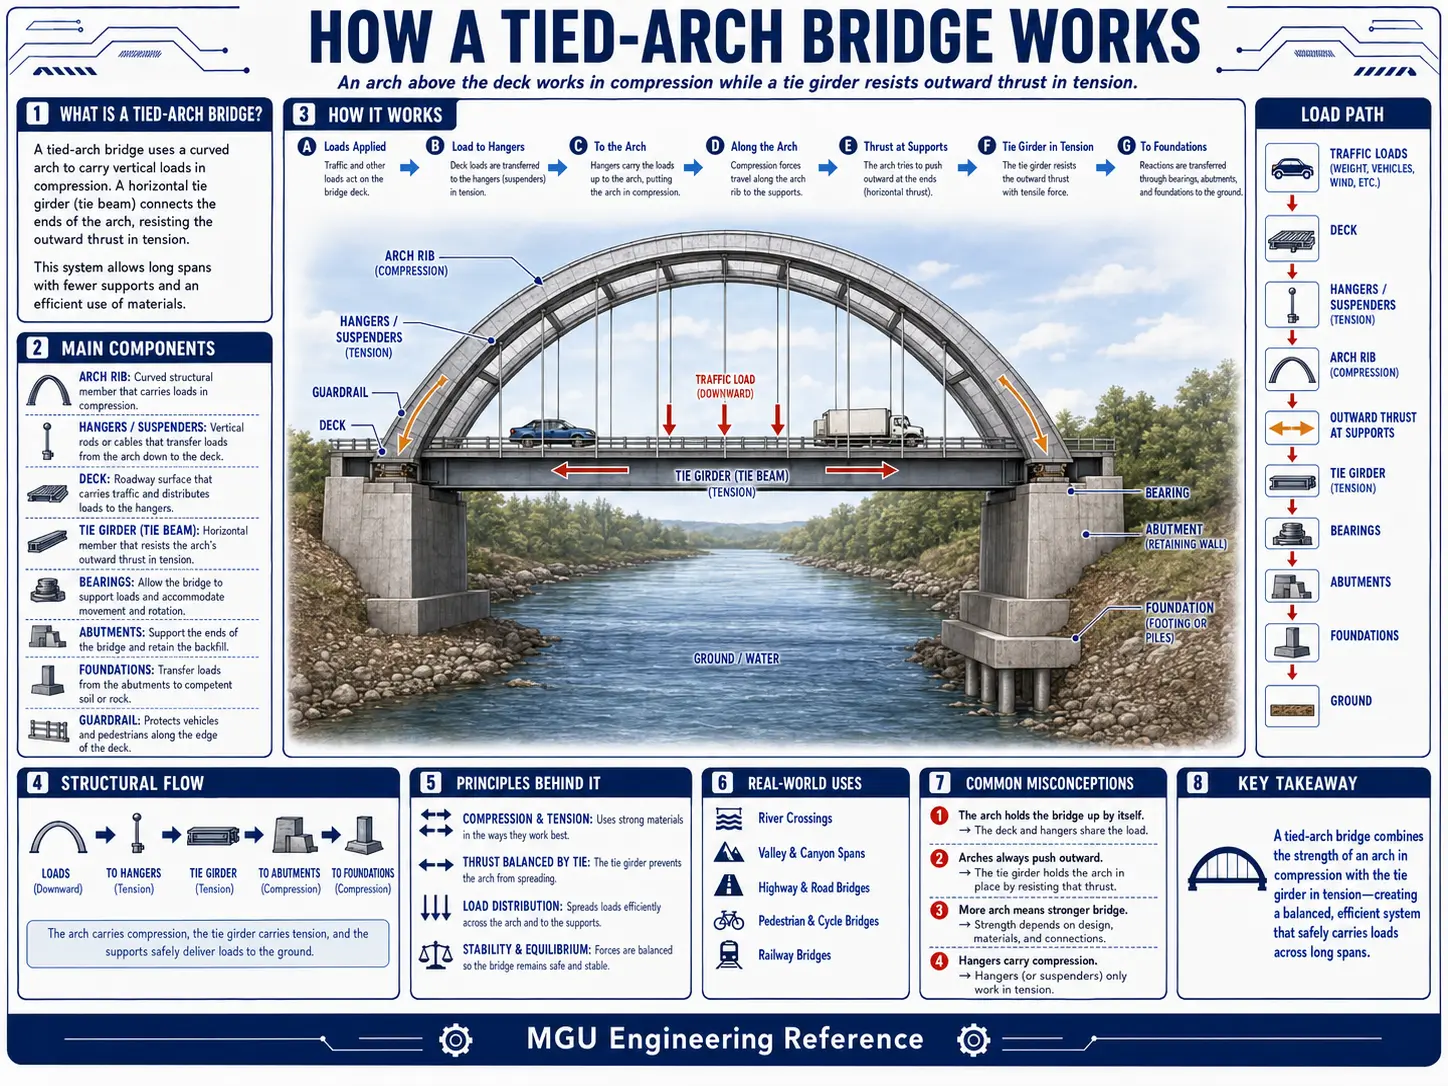
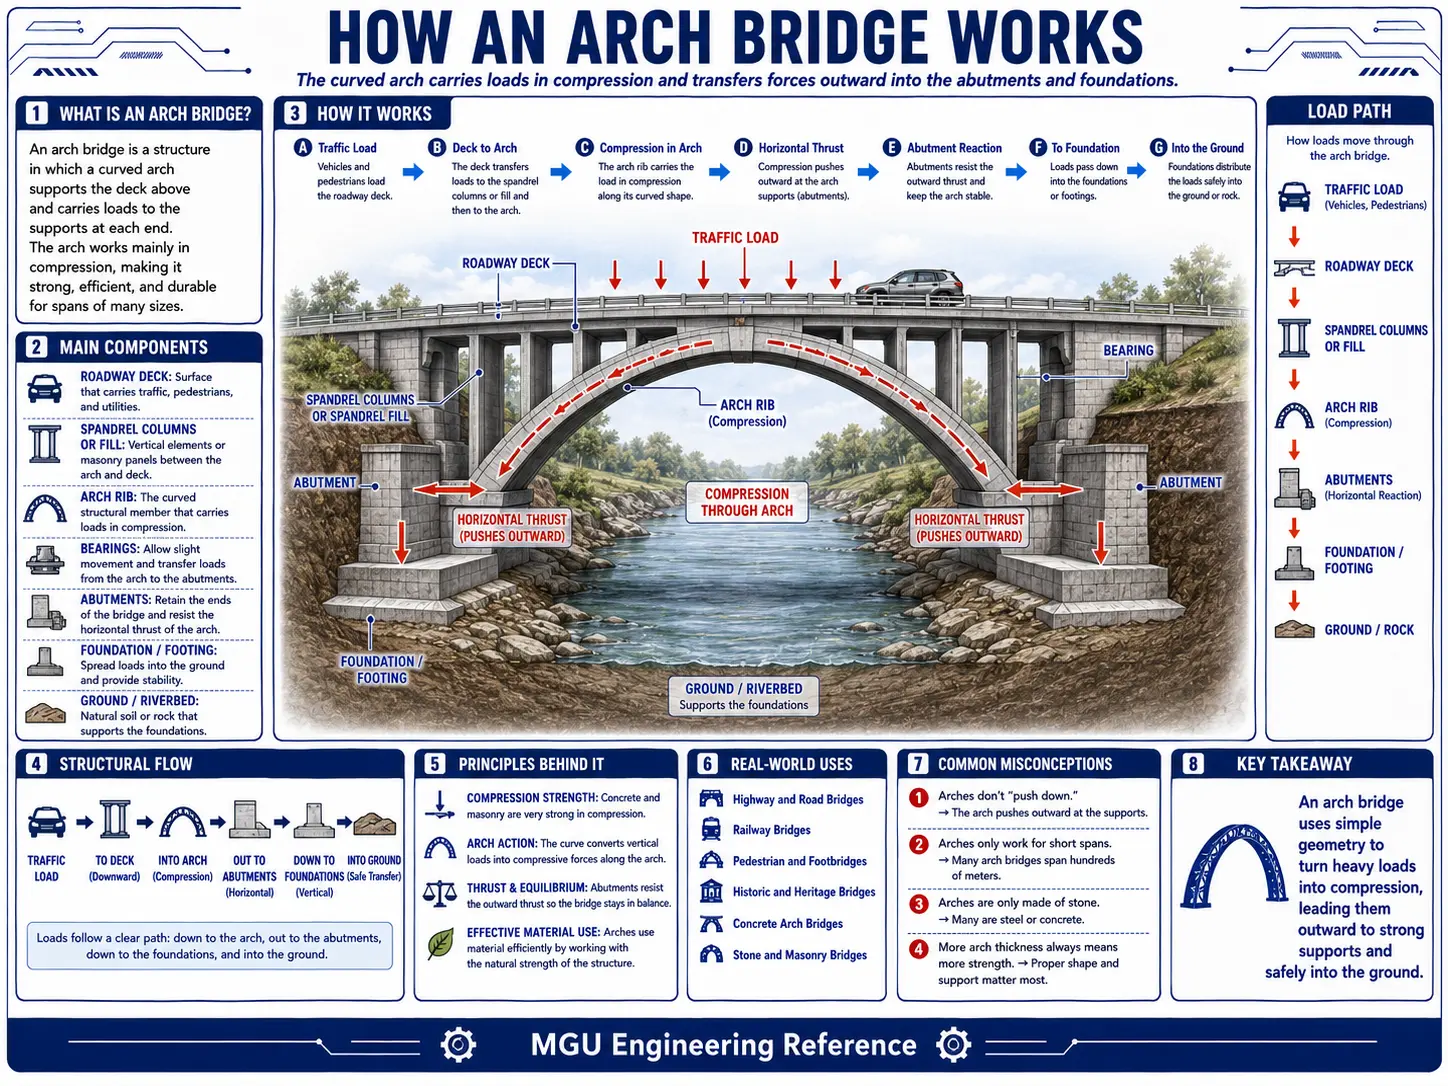
deploy

diff --git a/malone-panther/index.html b/malone-panther/index.html
@@ -37,7 +37,7 @@ fetch('/component/header.html')
 
     <section>
       <h2>Department Overview</h2>
-      <p>The Malone Panther is the Newspaper Department of MGU. Here you will find links to news stories curated for maximum benefit to the MGU Community. Of particular interest is journalism that critiques public events. Such journalism is either called <em><strong>interpretive journalism</strong></em> which analyzes the deeper meaning of events, or <em><strong>watchdog journalism</strong></em> which is the foundational democratic role of monitoring government. By supporting The Malone Panther as part of the <em><strong>Fourth Estate</strong></em> you support transperacy and accountability in digital information.</p>
+      <p>The Malone Panther is the Newspaper Department of MGU. Here you will find links to news stories curated for maximum benefit to the MGU Community. Of particular interest is journalism that critiques public events. Such journalism is either called <em><strong>interpretive journalism</strong></em> which analyzes the deeper meaning of events, or <em><strong>watchdog journalism</strong></em> which is the foundational democratic role of monitoring government. By supporting The Malone Panther as part of the <em><strong>Fourth Estate</strong></em> you support transparency and accountability in digital information.</p>
     </section>
 
     <section class="directory-page">